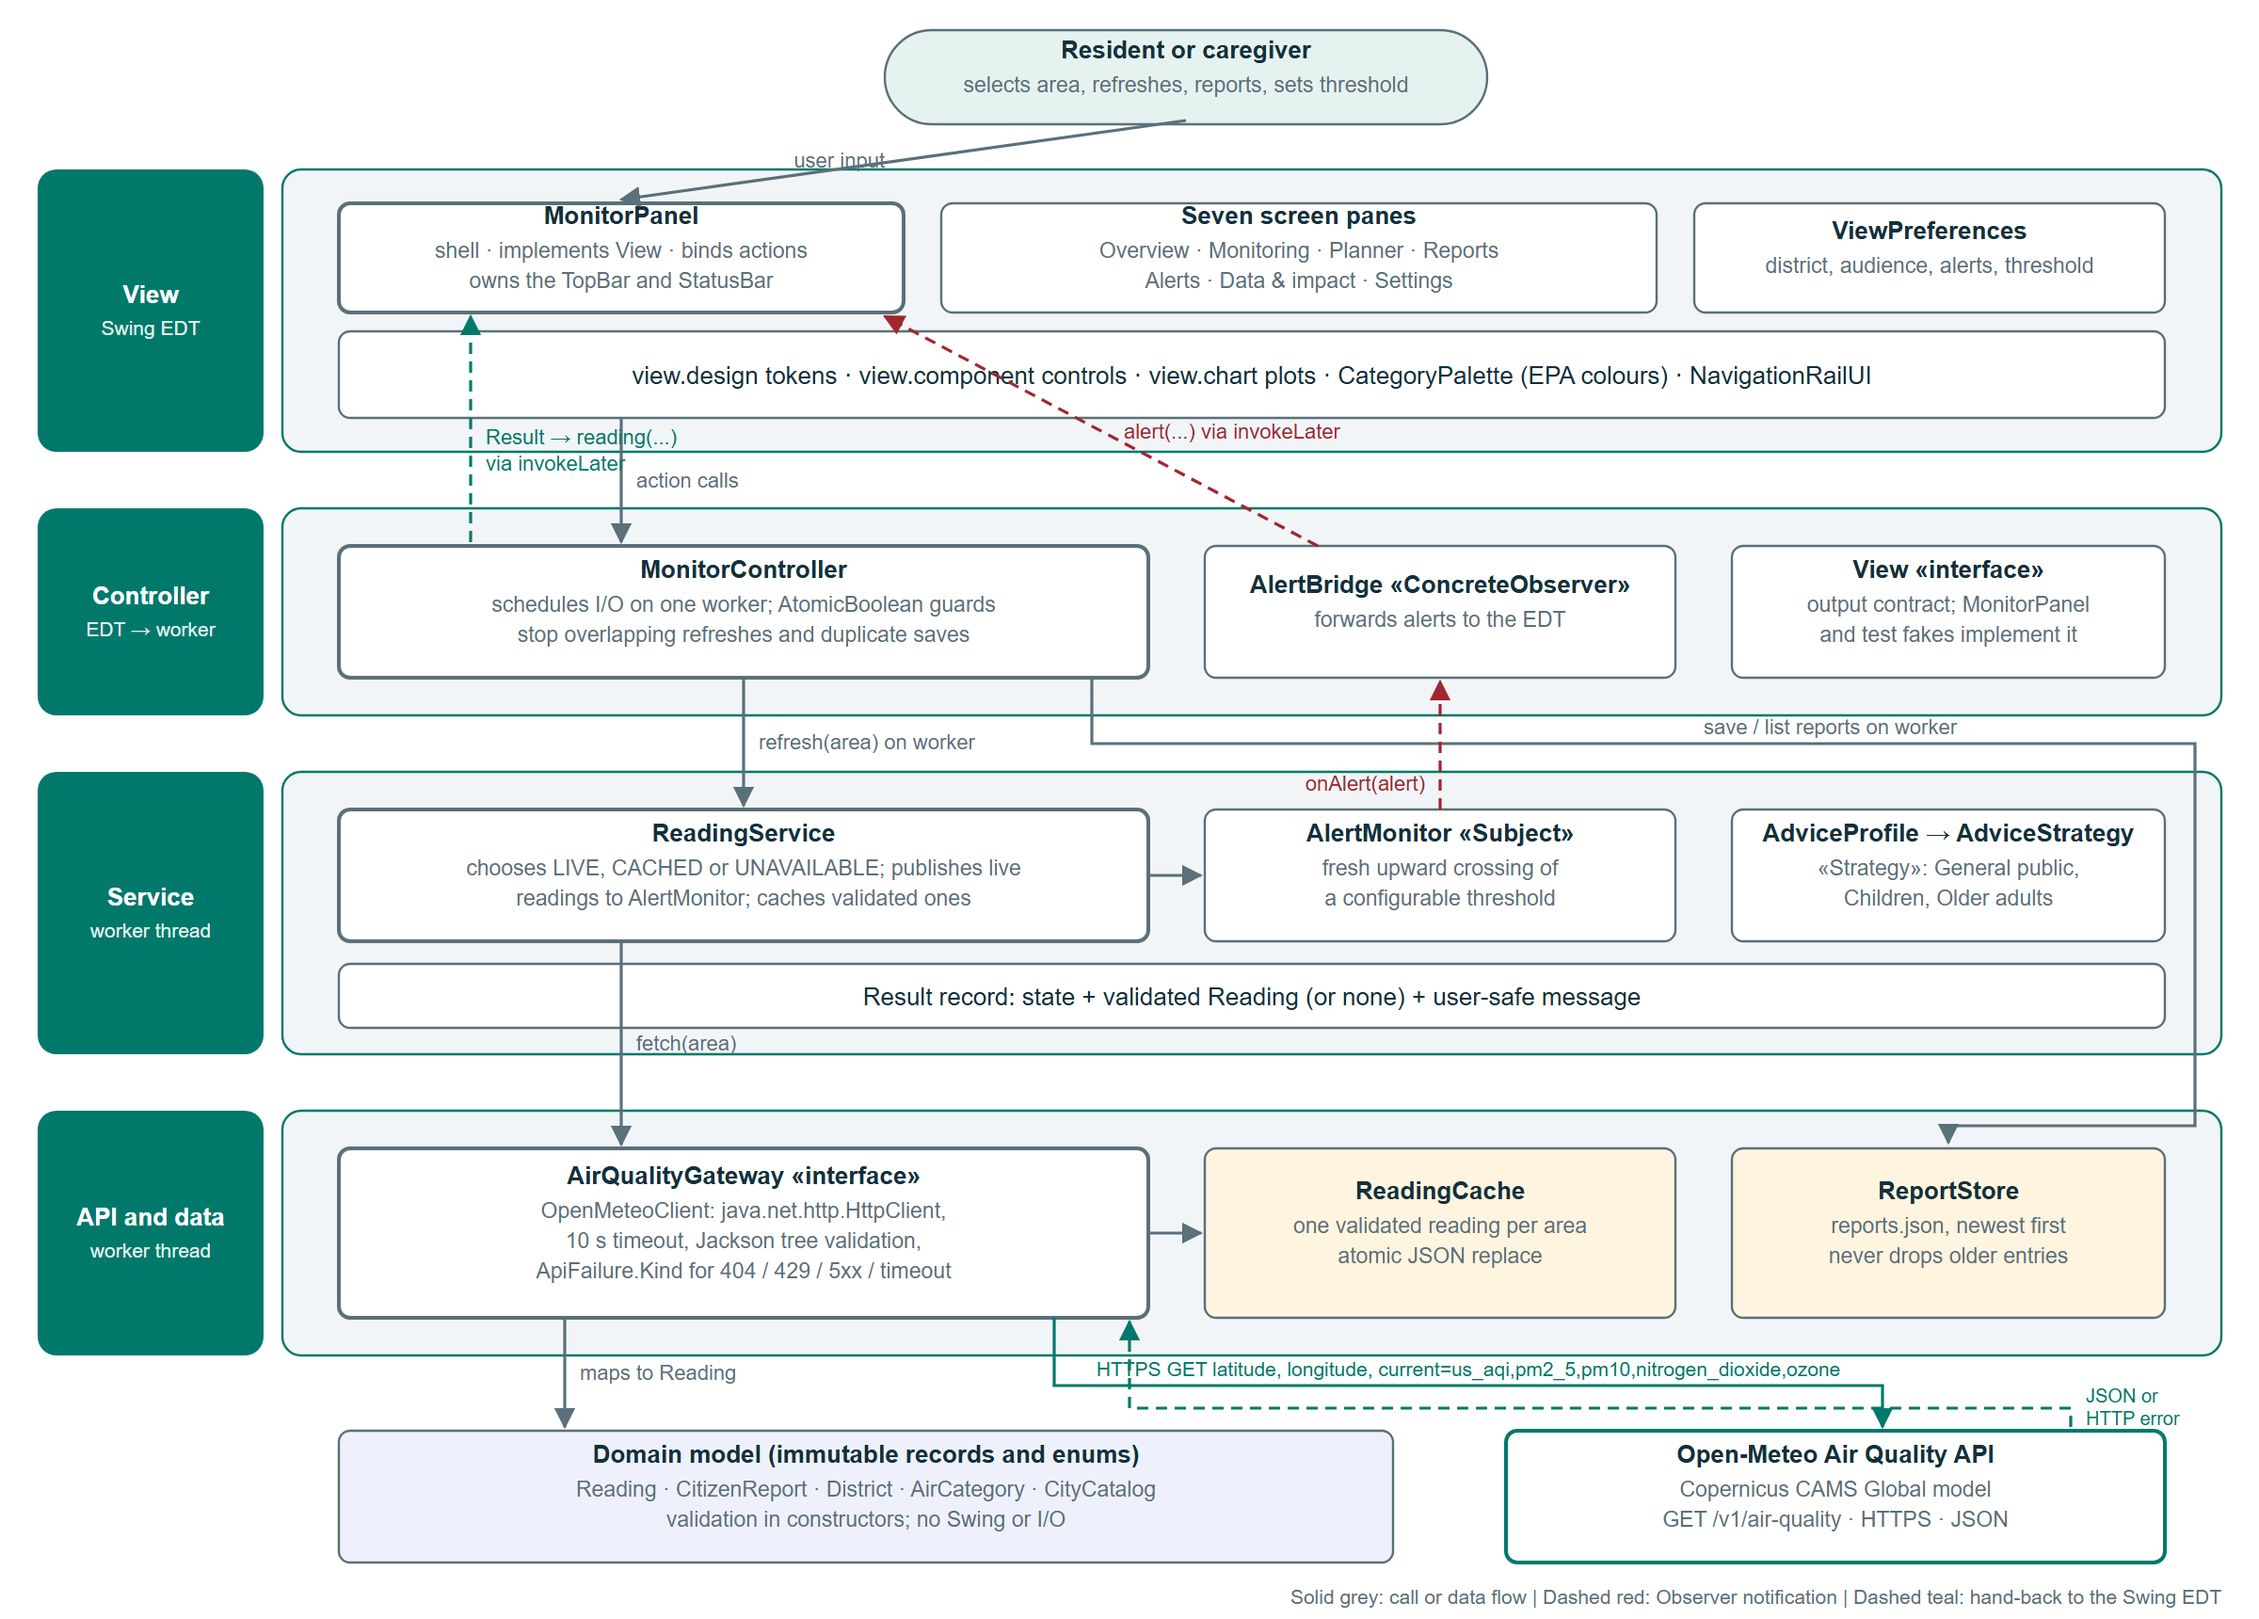
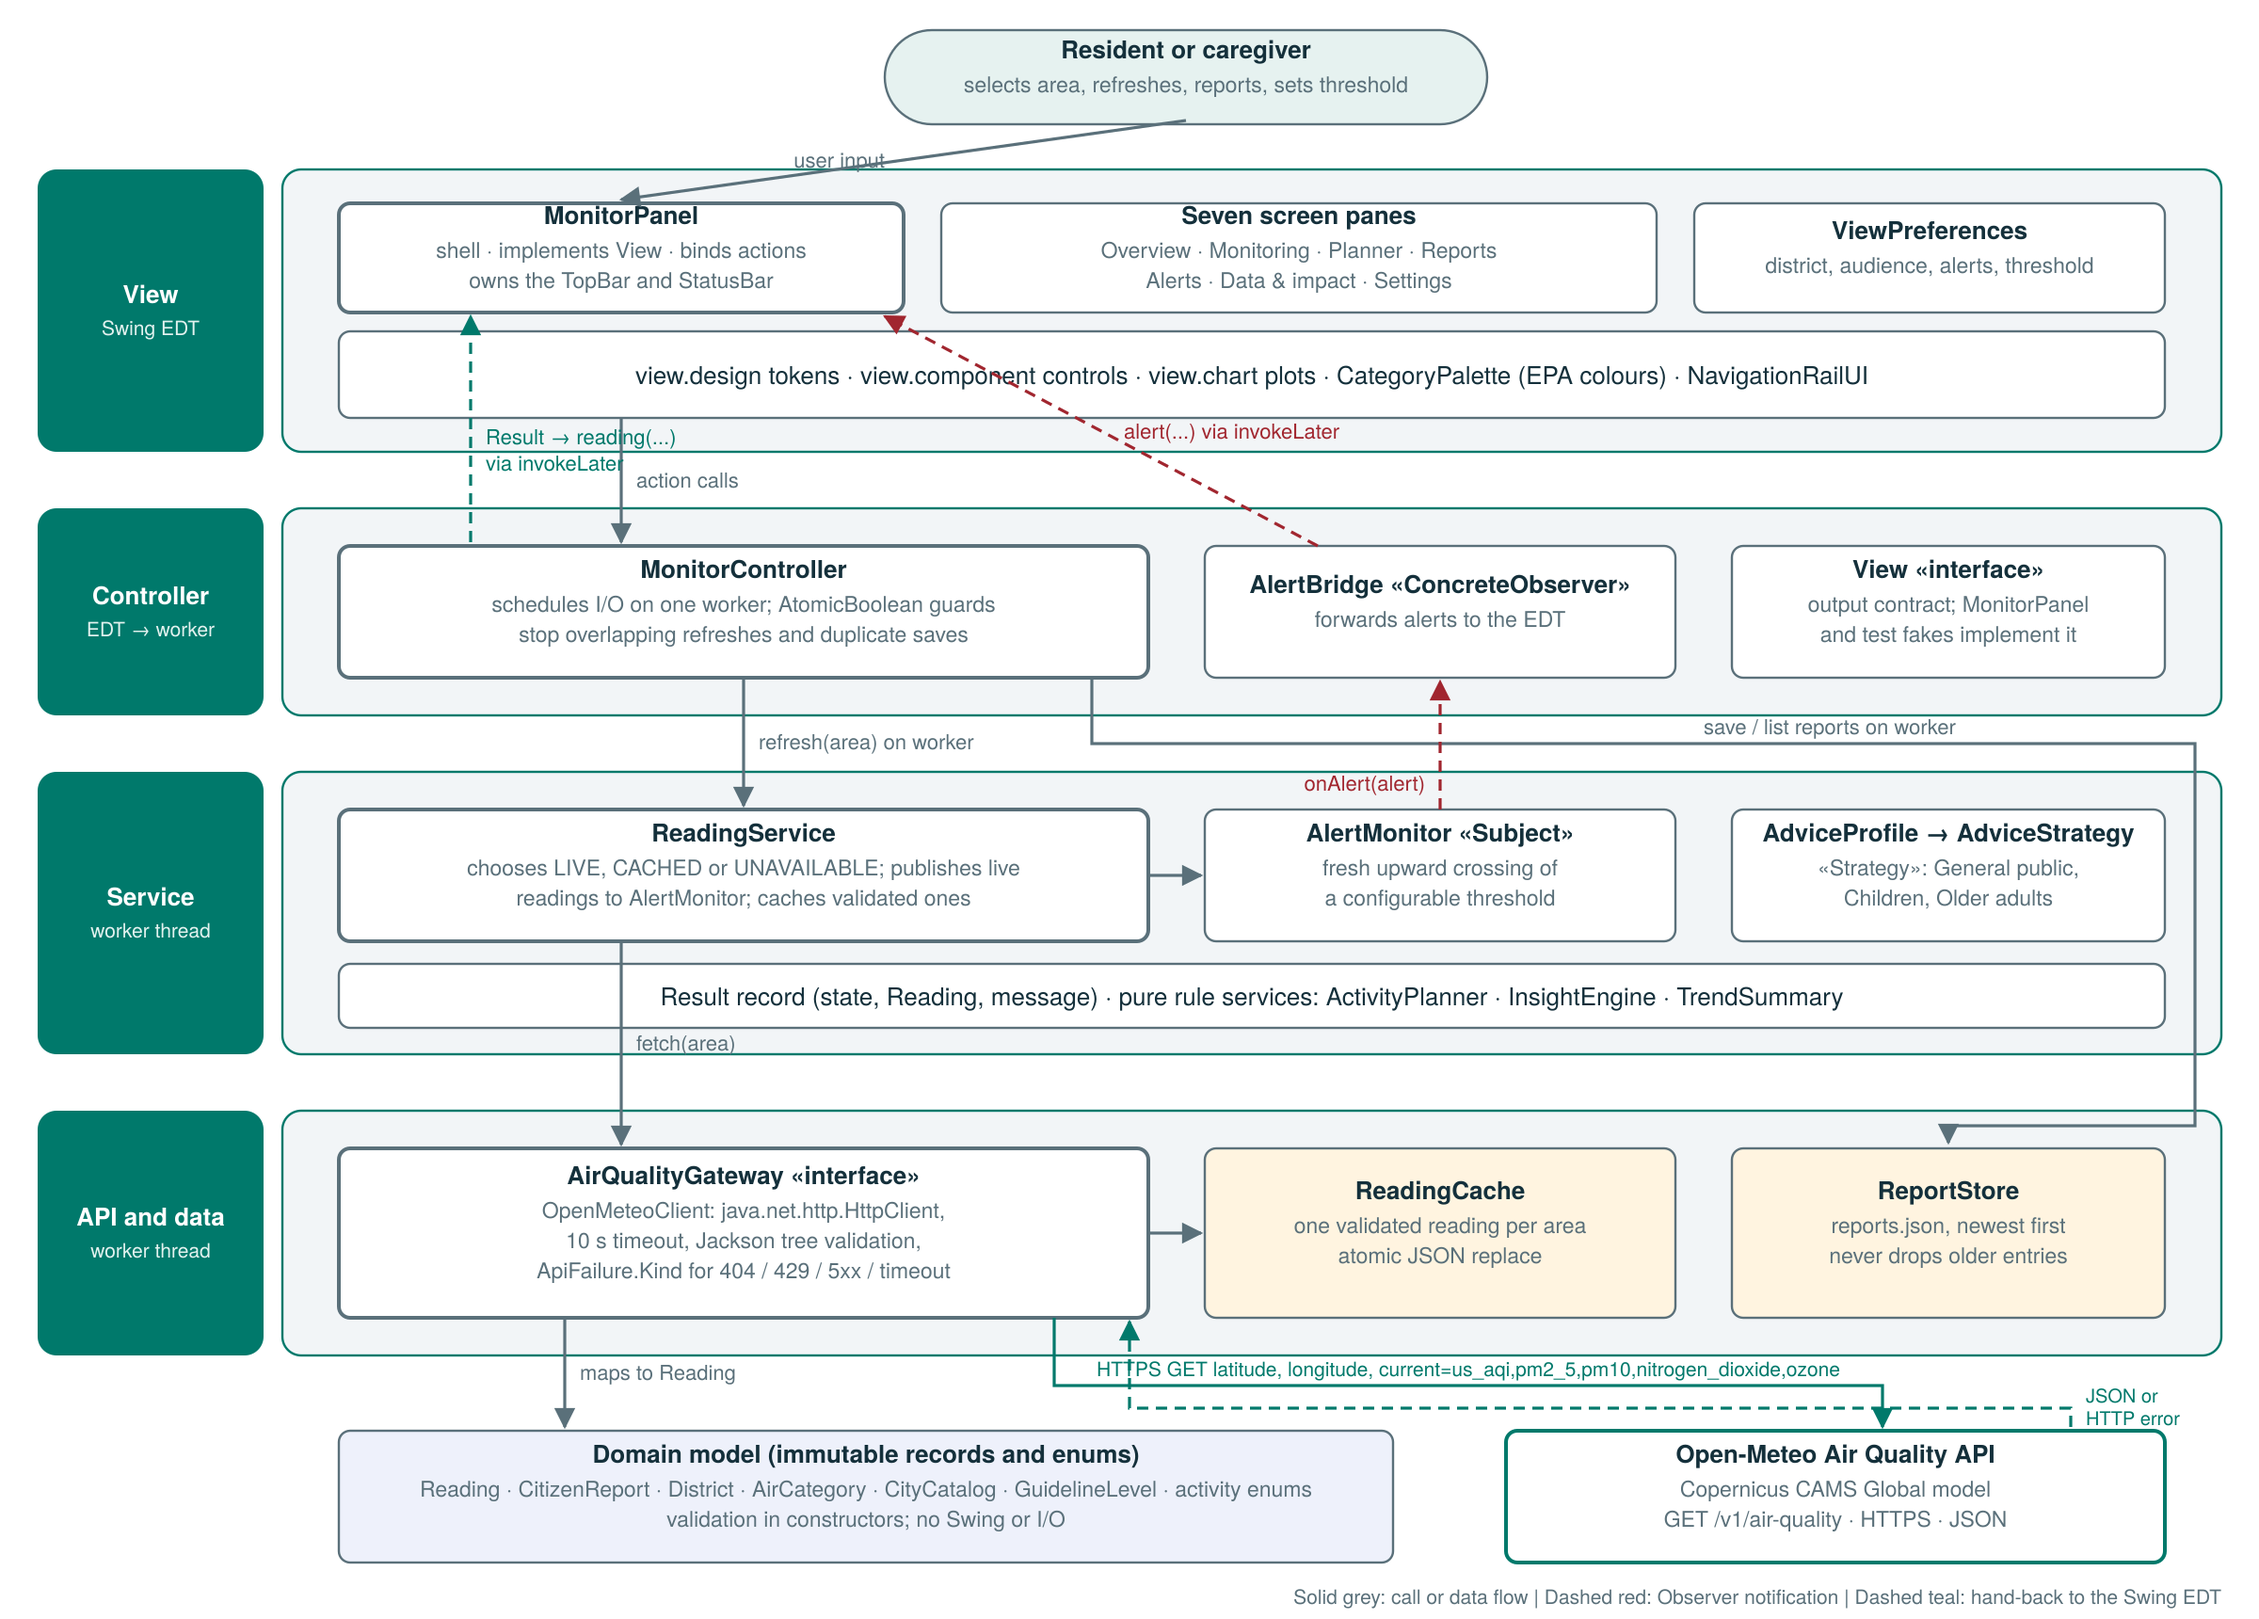
Show the planner, insight and trend services in the architecture diagram
Claude-Session: https://claude.ai/code/session_01BhEtwa1BQ9Q7D3NGCABWTs

diff --git a/diagrams/architecture_svg.py b/diagrams/architecture_svg.py
@@ -71,14 +71,14 @@ def build():
     box(180, 430, 430, 70, "ReadingService", ["chooses LIVE, CACHED or UNAVAILABLE; publishes live", "readings to AlertMonitor; caches validated ones"], width=2)
     box(640, 430, 250, 70, "AlertMonitor  «Subject»", ["fresh upward crossing of", "a configurable threshold"])
     box(920, 430, 230, 70, "AdviceProfile → AdviceStrategy", ["«Strategy»: General public,", "Children, Older adults"])
-    box(180, 512, 970, 34, "Result record: state + validated Reading (or none) + user-safe message", bold=False)
+    box(180, 512, 970, 34, "Result record (state, Reading, message)  ·  pure rule services: ActivityPlanner · InsightEngine · TrendSummary", bold=False)
     box(180, 610, 430, 90, "AirQualityGateway  «interface»", ["OpenMeteoClient: java.net.http.HttpClient,",
                                                                "10 s timeout, Jackson tree validation,",
                                                                "ApiFailure.Kind for 404 / 429 / 5xx / timeout"], width=2)
     box(640, 610, 250, 90, "ReadingCache", ["one validated reading per area", "atomic JSON replace"], fill="#FFF4E0")
     box(920, 610, 230, 90, "ReportStore", ["reports.json, newest first", "never drops older entries"], fill="#FFF4E0")
     # Domain and external
-    box(180, 760, 560, 70, "Domain model (immutable records and enums)", ["Reading · CitizenReport · District · AirCategory · CityCatalog",
+    box(180, 760, 560, 70, "Domain model (immutable records and enums)", ["Reading · CitizenReport · District · AirCategory · CityCatalog · GuidelineLevel · activity enums",
                                                                          "validation in constructors; no Swing or I/O"], fill="#EEF1FB")
     box(800, 760, 350, 70, "Open-Meteo Air Quality API", ["Copernicus CAMS Global model",
                                                           "GET /v1/air-quality · HTTPS · JSON"], fill="#FFFFFF", stroke=TEAL, width=2)
